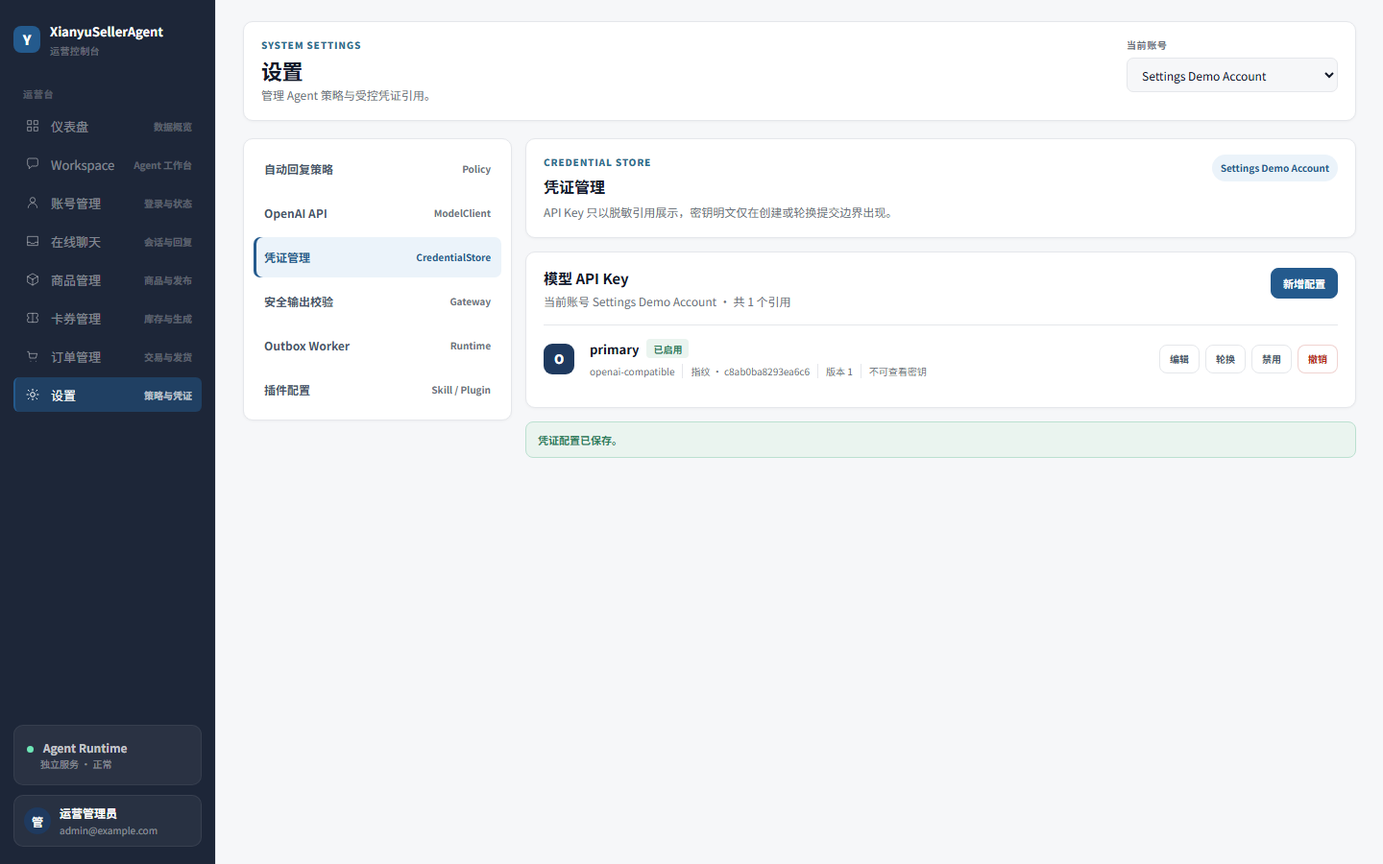
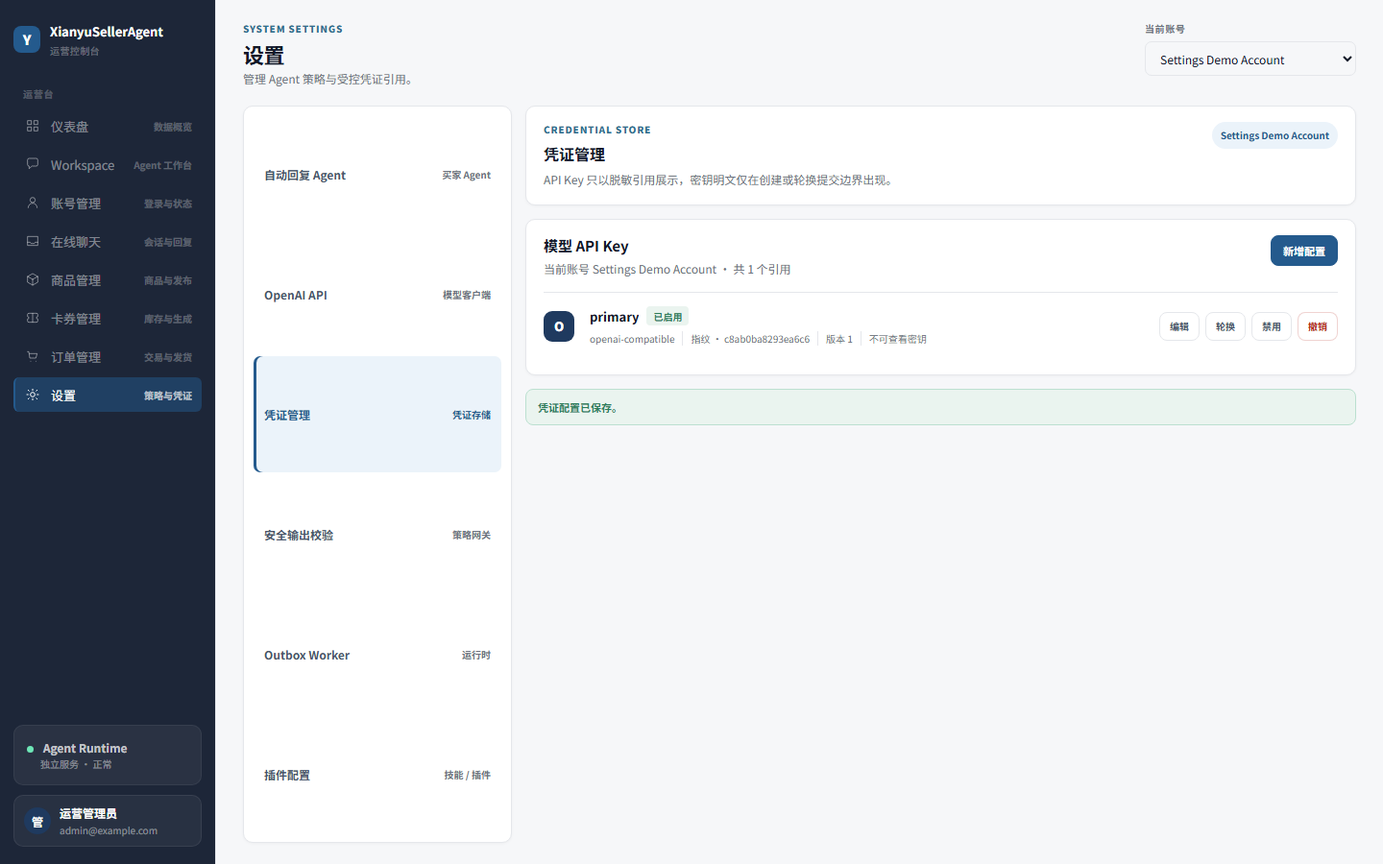
fix(自动回复): 修复外部商品号与设置页状态

diff --git a/apps/web/src/features/settings/components/settings.css b/apps/web/src/features/settings/components/settings.css
@@ -1,5 +1,4 @@
-.settings-page{position:relative;min-height:100%}.settings-tab-mobile-label{display:none}.settings-mobile-header{display:flex;align-items:flex-start;justify-content:space-between;gap:18px;padding:16px 18px}.settings-mobile-header h1{margin:0 0 4px;font-size:22px}.settings-account-picker{display:grid;gap:6px;min-width:220px}.settings-account-picker label{color:var(--sub);font-size:10px;font-weight:700;text-transform:uppercase;letter-spacing:.06em}.settings-account-picker select{height:36px;padding:0 11px;border:1px solid var(--border);border-radius:7px;background:var(--bg);color:var(--text);font-size:12px}.settings-grid{display:grid;grid-template-columns:280px minmax(0,1fr);gap:14px;align-items:start}.settings-tabs{padding:10px;display:grid;gap:4px}.settings-tabs button{display:flex;align-items:center;justify-content:space-between;gap:12px;min-height:42px;padding:8px 11px;border:0;border-radius:7px;background:transparent;color:var(--muted);text-align:left;font-size:12px;font-weight:700}.settings-tabs button small{color:var(--sub);font-size:10px;font-weight:600}.settings-tabs button:hover{background:#F8FAFC}.settings-tabs button.active{background:var(--soft-blue-bg);color:var(--link);box-shadow:inset 3px 0 0 var(--link)}.settings-tabs button.active small{color:var(--link)}.settings-active{min-width:0}.settings-content{display:grid;gap:14px}.settings-hero{display:flex;align-items:flex-start;justify-content:space-between;gap:14px}.settings-hero h2{font-size:16px;margin-bottom:5px}.settings-scope-chip{display:inline-flex;align-items:center;min-height:28px;padding:0 9px;border-radius:999px;background:var(--soft-blue-bg);color:var(--link);font-size:10px;font-weight:700;white-space:nowrap}.settings-state{display:flex;align-items:center;justify-content:space-between;gap:12px;padding:28px 20px;border:1px dashed var(--border);border-radius:10px;background:#fff;color:var(--sub);font-size:12px}.settings-state strong{color:var(--text);font-size:13px}.settings-state span{display:block}.settings-state.empty{display:grid;justify-items:start;gap:8px;text-align:left}.settings-state.error{border-style:solid;border-color:rgba(180,35,24,.18);background:var(--danger-bg);color:var(--danger)}.settings-state.loading{justify-content:flex-start}.settings-spinner{width:14px;height:14px;border:2px solid #D5E3EF;border-top-color:var(--link);border-radius:50%;animation:settings-spin .8s linear infinite}.panel-head{display:flex;align-items:flex-start;justify-content:space-between;gap:14px;margin-bottom:14px}.panel-head h2{font-size:15px;margin-bottom:4px}.credential-list-card{overflow:hidden}.credential-list{display:grid;gap:0;border-top:1px solid var(--border)}.credential-row{display:grid;grid-template-columns:36px minmax(0,1fr) auto;align-items:center;gap:12px;padding:14px 0;border-bottom:1px solid var(--border)}.credential-row:last-child{border-bottom:0}.credential-mark{width:32px;height:32px;display:grid;place-items:center;border-radius:9px;background:var(--brand);color:#fff;font-size:13px;font-weight:800}.credential-main{min-width:0}.credential-title{display:flex;align-items:center;gap:8px;min-width:0}.credential-title strong{font-size:13px;white-space:nowrap;overflow:hidden;text-overflow:ellipsis}.credential-meta{display:flex;flex-wrap:wrap;gap:8px;margin-top:6px;color:var(--sub);font-size:10px}.credential-meta span+span{padding-left:8px;border-left:1px solid var(--border)}.status-pill{display:inline-flex;align-items:center;height:20px;padding:0 7px;border-radius:4px;font-size:10px;font-weight:700}.status-pill.ok{background:var(--success-bg);color:var(--success)}.status-pill.warn{background:var(--warn-bg);color:var(--warn)}.status-pill.danger{background:var(--danger-bg);color:var(--danger)}.credential-actions{display:flex;justify-content:flex-end;gap:6px;flex-wrap:wrap}.credential-actions .btn{height:30px;padding:0 10px;font-size:10px}.settings-save-toast{padding:10px 12px;border:1px solid var(--success-border);border-radius:8px;background:var(--success-bg);color:var(--success);font-size:11px;font-weight:700}.settings-reference-list{display:grid;gap:0;margin:12px 0 16px;border-top:1px solid var(--border)}.settings-reference-list>div{display:grid;grid-template-columns:140px minmax(0,1fr) auto;gap:12px;align-items:center;padding:12px 0;border-bottom:1px solid var(--border);font-size:11px}.settings-reference-list strong{color:var(--muted);font-size:11px}.settings-reference-list span{color:var(--text)}.settings-reference-list em{font-style:normal;color:var(--info);font-size:10px;font-weight:700}.settings-editor{padding:20px}.settings-editor .modal-head{margin-bottom:16px}.settings-form-grid{display:grid;grid-template-columns:repeat(2,minmax(0,1fr));gap:12px}.settings-form-grid label{display:grid;gap:6px;color:var(--muted);font-size:11px;font-weight:700}.settings-form-grid label.full{grid-column:1/-1}.settings-form-grid input{height:38px;padding:0 11px;border:1px solid var(--border);border-radius:7px;background:var(--bg);color:var(--text);font-size:12px}.settings-editor-note{display:grid;gap:4px;margin-top:14px;padding:11px 12px;border-left:3px solid var(--info);border-radius:6px;background:var(--soft-blue-bg);color:var(--muted);font-size:10px}.settings-editor-note strong{color:var(--info);font-size:11px}.settings-mobile-bottom{display:none}
+.settings-page{position:relative;display:flex;min-height:100%;height:100%;flex-direction:column}.settings-tab-mobile-label{display:none}.settings-toolbar{display:flex;align-items:flex-start;justify-content:space-between;gap:18px}.settings-toolbar h1{margin:0 0 4px;font-size:22px}.settings-account-picker{display:grid;gap:6px;min-width:220px}.settings-account-picker label{color:var(--sub);font-size:10px;font-weight:700;text-transform:uppercase;letter-spacing:.06em}.settings-account-picker select{height:36px;padding:0 11px;border:1px solid var(--border);border-radius:7px;background:var(--bg);color:var(--text);font-size:12px}.settings-grid{display:grid;flex:1;min-height:0;grid-template-columns:280px minmax(0,1fr);gap:14px;align-items:stretch}.settings-tabs{padding:10px;display:grid;gap:4px}.settings-tabs button{display:flex;align-items:center;justify-content:space-between;gap:12px;min-height:42px;padding:8px 11px;border:0;border-radius:7px;background:transparent;color:var(--muted);text-align:left;font-size:12px;font-weight:700}.settings-tabs button small{color:var(--sub);font-size:10px;font-weight:600}.settings-tabs button:hover{background:#F8FAFC}.settings-tabs button.active{background:var(--soft-blue-bg);color:var(--link);box-shadow:inset 3px 0 0 var(--link)}.settings-tabs button.active small{color:var(--link)}.settings-active{min-width:0;min-height:0}.settings-content{display:grid;gap:14px;min-height:0}.settings-hero{display:flex;align-items:flex-start;justify-content:space-between;gap:14px}.settings-hero h2{font-size:16px;margin-bottom:5px}.settings-scope-chip{display:inline-flex;align-items:center;min-height:28px;padding:0 9px;border-radius:999px;background:var(--soft-blue-bg);color:var(--link);font-size:10px;font-weight:700;white-space:nowrap}.settings-state{display:flex;align-items:center;justify-content:space-between;gap:12px;padding:28px 20px;border:1px dashed var(--border);border-radius:10px;background:#fff;color:var(--sub);font-size:12px}.settings-state strong{color:var(--text);font-size:13px}.settings-state span{display:block}.settings-state.empty{display:grid;justify-items:start;gap:8px;text-align:left}.settings-state.error{border-style:solid;border-color:rgba(180,35,24,.18);background:var(--danger-bg);color:var(--danger)}.settings-state.loading{justify-content:flex-start}.settings-spinner{width:14px;height:14px;border:2px solid #D5E3EF;border-top-color:var(--link);border-radius:50%;animation:settings-spin .8s linear infinite}.panel-head{display:flex;align-items:flex-start;justify-content:space-between;gap:14px;margin-bottom:14px}.panel-head h2{font-size:15px;margin-bottom:4px}.credential-list-card{overflow:hidden}.credential-list{display:grid;gap:0;border-top:1px solid var(--border)}.credential-row{display:grid;grid-template-columns:36px minmax(0,1fr) auto;align-items:center;gap:12px;padding:14px 0;border-bottom:1px solid var(--border)}.credential-row:last-child{border-bottom:0}.credential-mark{width:32px;height:32px;display:grid;place-items:center;border-radius:9px;background:var(--brand);color:#fff;font-size:13px;font-weight:800}.credential-main{min-width:0}.credential-title{display:flex;align-items:center;gap:8px;min-width:0}.credential-title strong{font-size:13px;white-space:nowrap;overflow:hidden;text-overflow:ellipsis}.credential-meta{display:flex;flex-wrap:wrap;gap:8px;margin-top:6px;color:var(--sub);font-size:10px}.credential-meta span+span{padding-left:8px;border-left:1px solid var(--border)}.status-pill{display:inline-flex;align-items:center;height:20px;padding:0 7px;border-radius:4px;font-size:10px;font-weight:700}.status-pill.ok{background:var(--success-bg);color:var(--success)}.status-pill.warn{background:var(--warn-bg);color:var(--warn)}.status-pill.danger{background:var(--danger-bg);color:var(--danger)}.credential-actions{display:flex;justify-content:flex-end;gap:6px;flex-wrap:wrap}.credential-actions .btn{height:30px;padding:0 10px;font-size:10px}.settings-save-toast{padding:10px 12px;border:1px solid var(--success-border);border-radius:8px;background:var(--success-bg);color:var(--success);font-size:11px;font-weight:700}.settings-reference-list{display:grid;gap:0;margin:12px 0 16px;border-top:1px solid var(--border)}.settings-reference-list>div{display:grid;grid-template-columns:140px minmax(0,1fr) auto;gap:12px;align-items:center;padding:12px 0;border-bottom:1px solid var(--border);font-size:11px}.settings-reference-list strong{color:var(--muted);font-size:11px}.settings-reference-list span{color:var(--text)}.settings-reference-list em{font-style:normal;color:var(--info);font-size:10px;font-weight:700}.settings-editor{padding:20px}.settings-editor .modal-head{margin-bottom:16px}.settings-form-grid{display:grid;grid-template-columns:repeat(2,minmax(0,1fr));gap:12px}.settings-form-grid label{display:grid;gap:6px;color:var(--muted);font-size:11px;font-weight:700}.settings-form-grid label.full{grid-column:1/-1}.settings-form-grid input{height:38px;padding:0 11px;border:1px solid var(--border);border-radius:7px;background:var(--bg);color:var(--text);font-size:12px}.settings-form-grid select{height:38px;padding:0 11px;border:1px solid var(--border);border-radius:7px;background:var(--bg);color:var(--text);font-size:12px}.settings-form-grid textarea{padding:10px 11px;border:1px solid var(--border);border-radius:7px;background:var(--bg);color:var(--text);font-size:12px;line-height:1.5;resize:vertical}.settings-checkbox{display:flex!important;align-items:center;gap:8px;height:38px}.settings-checkbox input{width:16px;height:16px}.auto-reply-agent-fields{display:grid;grid-column:1/-1;grid-template-columns:repeat(2,minmax(0,1fr));gap:12px;min-inline-size:0;margin:0;padding:0;border:0}.auto-reply-agent-fields:disabled{opacity:.5}.auto-reply-agent-editor{padding:20px}.settings-editor-note{display:grid;gap:4px;margin-top:14px;padding:11px 12px;border-left:3px solid var(--info);border-radius:6px;background:var(--soft-blue-bg);color:var(--muted);font-size:10px}.settings-editor-note strong{color:var(--info);font-size:11px}.settings-mobile-bottom{display:none}
 @keyframes settings-spin{to{transform:rotate(360deg)}}
 @media(max-width:900px){.settings-shell .sidebar{display:none}.settings-shell .desktop-body{border-left:0}.settings-shell .desktop-body main.settings-main{padding:14px 16px}}
-@media(max-width:900px){.settings-page{padding-bottom:84px}.settings-mobile-header{display:grid;gap:14px;padding:14px;border-radius:12px}.settings-mobile-header h1{font-size:18px}.settings-account-picker{min-width:0}.settings-grid{display:block}.settings-tabs{display:flex;overflow-x:auto;scrollbar-width:none;gap:7px;padding:0 0 2px;border:0;box-shadow:none;background:transparent}.settings-tabs::-webkit-scrollbar{display:none}.settings-tabs button{min-width:58px;min-height:46px;display:grid;place-items:center;gap:2px;padding:6px 8px;border:1px solid var(--border);background:#fff;border-radius:8px;text-align:center}.settings-tab-label{display:none}.settings-tab-mobile-label{display:block}.settings-tabs button small{font-size:9px}.settings-tabs button.active{box-shadow:inset 0 -2px 0 var(--link);border-color:#D4E4F1}.settings-content{gap:12px}.panel{padding:14px}.settings-hero{display:grid;gap:10px}.credential-list-card .panel-head{align-items:center}.credential-row{grid-template-columns:32px minmax(0,1fr);align-items:start;padding:13px 0}.credential-actions{grid-column:2;justify-content:flex-start}.credential-meta{gap:6px}.credential-meta span+span{padding-left:6px}.settings-reference-list>div{grid-template-columns:1fr auto;gap:6px}.settings-reference-list>div span{grid-column:1/-1}.settings-editor{padding:16px;border-radius:14px}.settings-form-grid{grid-template-columns:1fr}.settings-form-grid label.full{grid-column:auto}.settings-mobile-bottom{position:fixed;left:0;right:0;bottom:0;z-index:30;display:grid;grid-template-columns:repeat(4,1fr);padding:8px 0 24px;border-top:1px solid var(--border);background:#fff}.settings-mobile-bottom button{display:grid;justify-items:center;gap:4px;border:0;background:transparent;color:var(--sub);font-size:18px}.settings-mobile-bottom button small{font-size:9px;font-weight:700}.settings-mobile-bottom button.active{color:var(--link)}}
-.settings-form-grid select{height:38px;padding:0 11px;border:1px solid var(--border);border-radius:7px;background:var(--bg);color:var(--text);font-size:12px}.settings-form-grid textarea{padding:10px 11px;border:1px solid var(--border);border-radius:7px;background:var(--bg);color:var(--text);font-size:12px;line-height:1.5;resize:vertical}.settings-checkbox{display:flex!important;align-items:center;gap:8px;height:38px}.settings-checkbox input{width:16px;height:16px}.auto-reply-agent-editor{padding:20px}
+@media(max-width:900px){.settings-page{height:auto;min-height:calc(100dvh - 30px);padding-bottom:84px}.settings-toolbar{display:grid;gap:10px}.settings-toolbar h1{font-size:18px}.settings-account-picker{min-width:0}.settings-grid{display:block}.settings-tabs{display:flex;overflow-x:auto;scrollbar-width:none;gap:7px;padding:0 0 2px;border:0;box-shadow:none;background:transparent}.settings-tabs::-webkit-scrollbar{display:none}.settings-tabs button{min-width:58px;min-height:46px;display:grid;place-items:center;gap:2px;padding:6px 8px;border:1px solid var(--border);background:#fff;border-radius:8px;text-align:center}.settings-tab-label{display:none}.settings-tab-mobile-label{display:block}.settings-tabs button small{font-size:9px}.settings-tabs button.active{box-shadow:inset 0 -2px 0 var(--link);border-color:#D4E4F1}.settings-content{gap:12px}.panel{padding:14px}.settings-hero{display:grid;gap:10px}.credential-list-card .panel-head{align-items:center}.credential-row{grid-template-columns:32px minmax(0,1fr);align-items:start;padding:13px 0}.credential-actions{grid-column:2;justify-content:flex-start}.credential-meta{gap:6px}.credential-meta span+span{padding-left:6px}.settings-reference-list>div{grid-template-columns:1fr auto;gap:6px}.settings-reference-list>div span{grid-column:1/-1}.settings-editor{padding:16px;border-radius:14px}.settings-form-grid{grid-template-columns:1fr}.settings-form-grid label.full{grid-column:auto}.auto-reply-agent-fields{grid-template-columns:1fr}.auto-reply-agent-fields label.full{grid-column:auto}.settings-mobile-bottom{position:fixed;left:0;right:0;bottom:0;z-index:30;display:grid;grid-template-columns:repeat(4,1fr);padding:8px 0 24px;border-top:1px solid var(--border);background:#fff}.settings-mobile-bottom button{display:grid;justify-items:center;gap:4px;border:0;background:transparent;color:var(--sub);font-size:18px}.settings-mobile-bottom button small{font-size:9px;font-weight:700}.settings-mobile-bottom button.active{color:var(--link)}}

diff --git a/apps/web/src/features/settings/components/AutoReplyAgentPanel.tsx b/apps/web/src/features/settings/components/AutoReplyAgentPanel.tsx
@@ -37,20 +37,22 @@ export function AutoReplyAgentPanel({ controller }: { controller: AutoReplyAgent
     <form className="card panel settings-editor auto-reply-agent-editor" onSubmit={(event) => void submit(event)}>
       <div className="settings-form-grid">
         <label className="settings-checkbox full"><input type="checkbox" checked={draft.enabled} onChange={(event) => setField('enabled', event.target.checked)} />启用自动回复 Agent</label>
-        <label className="full">系统提示词<textarea value={draft.systemPrompt} onChange={(event) => setField('systemPrompt', event.target.value)} rows={5} maxLength={20000} required /></label>
-        <label className="full">用户提示词模板<textarea value={draft.userPromptTemplate} onChange={(event) => setField('userPromptTemplate', event.target.value)} rows={4} maxLength={20000} required /></label>
-        <label>最大循环次数<input type="number" min={1} max={12} value={draft.maxLoops} onChange={(event) => setField('maxLoops', Number(event.target.value))} required /></label>
-        <label>工具调用上限<input type="number" min={1} max={32} value={draft.maxToolCalls} onChange={(event) => setField('maxToolCalls', Number(event.target.value))} required /></label>
-        <label>工具超时（毫秒）<input type="number" min={100} max={120000} value={draft.toolTimeoutMs} onChange={(event) => setField('toolTimeoutMs', Number(event.target.value))} required /></label>
-        <label>总超时（毫秒）<input type="number" min={1000} max={300000} value={draft.totalTimeoutMs} onChange={(event) => setField('totalTimeoutMs', Number(event.target.value))} required /></label>
-        <label>上下文历史条数<input type="number" min={0} max={100} value={draft.maxHistory} onChange={(event) => setField('maxHistory', Number(event.target.value))} required /></label>
-        <label>最大回复长度<input type="number" min={50} max={4000} value={draft.maxReplyLength} onChange={(event) => setField('maxReplyLength', Number(event.target.value))} required /></label>
-        <label>分段长度上限<input type="number" min={50} max={1000} value={draft.maxReplySegmentChars} onChange={(event) => setField('maxReplySegmentChars', Number(event.target.value))} required /></label>
-        <label>最大分段数<input type="number" min={1} max={12} value={draft.maxReplySegments} onChange={(event) => setField('maxReplySegments', Number(event.target.value))} required /></label>
-        <label>分段发送间隔（毫秒）<input type="number" min={0} max={30000} value={draft.replySegmentDelayMs} onChange={(event) => setField('replySegmentDelayMs', Number(event.target.value))} required /></label>
-        <label>防抖窗口（毫秒）<input type="number" min={0} max={30000} value={draft.debounceMs} onChange={(event) => setField('debounceMs', Number(event.target.value))} required /></label>
-        <label className="settings-checkbox"><input type="checkbox" checked={draft.allowPaidOrderReply} onChange={(event) => setField('allowPaidOrderReply', event.target.checked)} />允许已支付订单自动回复</label>
-        <label>发送模式<select value={draft.sendMode} onChange={(event) => setField('sendMode', event.target.value as EditableConfig['sendMode'])}><option value="simulate">模拟发送</option><option value="live">真实发送（受白名单约束）</option></select></label>
+        <fieldset className="auto-reply-agent-fields" disabled={!draft.enabled} aria-label="自动回复 Agent 配置项">
+          <label className="full">系统提示词<textarea value={draft.systemPrompt} onChange={(event) => setField('systemPrompt', event.target.value)} rows={5} maxLength={20000} required /></label>
+          <label className="full">用户提示词模板<textarea value={draft.userPromptTemplate} onChange={(event) => setField('userPromptTemplate', event.target.value)} rows={4} maxLength={20000} required /></label>
+          <label>最大循环次数<input type="number" min={1} max={12} value={draft.maxLoops} onChange={(event) => setField('maxLoops', Number(event.target.value))} required /></label>
+          <label>工具调用上限<input type="number" min={1} max={32} value={draft.maxToolCalls} onChange={(event) => setField('maxToolCalls', Number(event.target.value))} required /></label>
+          <label>工具超时（毫秒）<input type="number" min={100} max={120000} value={draft.toolTimeoutMs} onChange={(event) => setField('toolTimeoutMs', Number(event.target.value))} required /></label>
+          <label>总超时（毫秒）<input type="number" min={1000} max={300000} value={draft.totalTimeoutMs} onChange={(event) => setField('totalTimeoutMs', Number(event.target.value))} required /></label>
+          <label>上下文历史条数<input type="number" min={0} max={100} value={draft.maxHistory} onChange={(event) => setField('maxHistory', Number(event.target.value))} required /></label>
+          <label>最大回复长度<input type="number" min={50} max={4000} value={draft.maxReplyLength} onChange={(event) => setField('maxReplyLength', Number(event.target.value))} required /></label>
+          <label>分段长度上限<input type="number" min={50} max={1000} value={draft.maxReplySegmentChars} onChange={(event) => setField('maxReplySegmentChars', Number(event.target.value))} required /></label>
+          <label>最大分段数<input type="number" min={1} max={12} value={draft.maxReplySegments} onChange={(event) => setField('maxReplySegments', Number(event.target.value))} required /></label>
+          <label>分段发送间隔（毫秒）<input type="number" min={0} max={30000} value={draft.replySegmentDelayMs} onChange={(event) => setField('replySegmentDelayMs', Number(event.target.value))} required /></label>
+          <label>防抖窗口（毫秒）<input type="number" min={0} max={30000} value={draft.debounceMs} onChange={(event) => setField('debounceMs', Number(event.target.value))} required /></label>
+          <label className="settings-checkbox"><input type="checkbox" checked={draft.allowPaidOrderReply} onChange={(event) => setField('allowPaidOrderReply', event.target.checked)} />允许已支付订单自动回复</label>
+          <label>发送模式<select value={draft.sendMode} onChange={(event) => setField('sendMode', event.target.value as EditableConfig['sendMode'])}><option value="simulate">模拟发送</option><option value="live">真实发送（受白名单约束）</option></select></label>
+        </fieldset>
       </div>
       <div className="settings-editor-note"><strong>配置审计</strong><span>当前版本 v{state.data.configVersion} · 摘要 {state.data.configDigest} · Prompt 原文不会写入审计日志。</span></div>
       <div className="modal-actions"><button type="submit" className="btn primary" disabled={state.phase === 'submitting'}>{state.phase === 'submitting' ? '保存中…' : '保存自动回复 Agent 配置'}</button></div>

diff --git a/apps/api/src/auto-reply-agent.ts b/apps/api/src/auto-reply-agent.ts
@@ -176,7 +176,13 @@ export class ToolCallingAutoReplyAgent implements AutoReplyGenerator {
   private async getProductInfo(adminId: string, context: AutoReplyContext, requestedRef?: string): Promise<Record<string, unknown>> {
     const productRef = requestedRef?.trim() || context.conversation.itemRef;
     if (!productRef) return { ok: false, code: 'PRODUCT_REF_REQUIRED' };
-    const byId = await this.store.getProduct(adminId, productRef);
+    // External Xianyu item refs are commonly numeric (for example
+    // `1078553391460`) while the local PostgreSQL product primary key is a
+    // UUID. Calling getProduct with an external ref makes PostgreSQL attempt
+    // to cast the value to uuid and abort the whole Agent run with 22P02.
+    // Only issue the primary-key lookup for UUID-shaped refs; external refs
+    // and titles are resolved through the scoped list query below.
+    const byId = isUuid(productRef) ? await this.store.getProduct(adminId, productRef) : undefined;
     if (byId && byId.accountId === context.conversation.accountId) return { ok: true, product: safeProduct(byId) };
     const result = await this.store.listProducts(adminId, { accountId: context.conversation.accountId, keyword: productRef, page: 1, pageSize: 100 });
     const product = result.items.find((item) => item.id === productRef || item.externalProductRef === productRef || item.title === productRef);
@@ -239,6 +245,10 @@ function renderUserPrompt(template: string, context: Record<string, unknown>): s
 
 function stringArg(value: unknown): string | undefined {
   return typeof value === 'string' ? value.slice(0, 120) : undefined;
+}
+
+function isUuid(value: string): boolean {
+  return /^[0-9a-f]{8}-[0-9a-f]{4}-[1-5][0-9a-f]{3}-[89ab][0-9a-f]{3}-[0-9a-f]{12}$/i.test(value);
 }
 
 function numberArg(value: unknown, fallback: number): number {

diff --git a/apps/web/src/features/settings/components/SettingsPage.tsx b/apps/web/src/features/settings/components/SettingsPage.tsx
@@ -48,10 +48,10 @@ export function SettingsPage({ api: providedApi, agentApi: providedAgentApi }: {
 
   return (
     <section className="page-stack settings-page" data-settings-page>
-      <div className="settings-mobile-header card">
+      <header className="settings-toolbar">
         <div><p className="eyebrow">System Settings</p><h1>设置</h1><p>管理 Agent 策略与受控凭证引用。</p></div>
         <div className="settings-account-picker"><label htmlFor="settings-account">当前账号</label><select id="settings-account" value={selectedAccountId} onChange={(event) => chooseAccount(event.target.value)} disabled={accountsLoading || accounts.length === 0}><option value="">请选择账号</option>{accounts.map((account) => <option key={account.id} value={account.id}>{account.displayName}</option>)}</select></div>
-      </div>
+      </header>
       <div className="settings-grid">
         <aside className="card settings-tabs" aria-label="设置分类">
           {tabs.map((tab) => <button key={tab.id} type="button" className={activeTab === tab.id ? 'active' : ''} onClick={() => setActiveTab(tab.id)}><span className="settings-tab-label">{tab.label}</span><span className="settings-tab-mobile-label">{tab.mobileLabel}</span><small>{tab.meta}</small></button>)}

diff --git a/docs/agent-worktree-registry.md b/docs/agent-worktree-registry.md
@@ -58,9 +58,9 @@
 | `root/listener_ready` | `auto-reply-smoke-race` | `codex/auto-reply-smoke-race` | `F:\ChenHai\Project\XianYuAgent-auto-reply-smoke-race` | Codex `/root` delegated agent | `2026-09-21 10:59:00 +08:00` | `MERGED` | `b59f026` | `-` | 更新自动回复 smoke 断言以匹配新的幂等语义：重复 push 返回同一 run、AI 出站保持单条、无真实发送；完整 API/Web 测试、构建和 Compose 配置通过。 |
 | `root` | `message-dedupe-fix` | `fix/message-dedupe` | `F:\ChenHai\Project\XianYuAgent-message-dedupe-fix` | Codex `/root` | `2026-09-21 12:00:00 +08:00` | `CLEANED` | `1b459a4` | `2026-09-21 11:45:00 +08:00` | 统一历史同步与实时 push 的规范消息号，补 parser、历史导入和原始 push 幂等回归；独立根因/UI 复核通过，定向与全量测试通过；worktree 与分支已清理。 |
 | `root` | `auto-reply-ai` | `feat/auto-reply-ai` | `F:\ChenHai\Project\XianYuAgent-auto-reply-ai` | Codex `/root` | `2026-09-21 12:10:00 +08:00` | `CLEANED` | `baf7e4d78327d52ba11fe8c73fd40cf8b13836d1` | `2026-09-21 12:12:20 +08:00` | 独立复审通过并在 merge lock 内合入；master 上模型单测 18/18、自动回复 E2E 1/1、API 全量 19/19、Web 39/39、构建、Compose 配置和 diff check 均通过；临时 worktree 与分支已清理。 |
-| `root` | `auto-reply-agent` | `feat/auto-reply-agent` | `F:\\ChenHai\\Project\\XianYuAgent-auto-reply` | Codex `/root` | `2026-09-21 12:20:00 +08:00` | `READY_FOR_REVIEW` | `-` | `-` | 自动回复 Agent 设计已确认并归档到 docs/agent/auto-reply；尚未进入编码。 |
-| `root/auto_reply_settings` | `auto-reply-agent-settings` | `codex/auto-reply-settings` | `F:\\ChenHai\\Project\\XianYuAgent-auto-reply-settings` | Codex `/root` delegated agent | `2026-09-21 13:05:00 +08:00` | `READY_FOR_REVIEW` | `-` | `-` | 已完成独立自动回复 Agent SettingsSection API/迁移、中文配置面板与 Chrome/CDP E2E；API/Web 定向测试和版本冲突验证通过。待主 agent 注入 configProvider 并复审合并。 |
-| `root/buyer_agent_impl` | `auto-reply-buyer-agent` | `codex/buyer-agent-impl` | `F:\ChenHai\Project\XianYuAgent-buyer-agent` | Codex `/root` delegated agent | `2026-09-21 13:00:00 +08:00` | `READY_FOR_REVIEW` | `-` | `-` | 买家侧独立 Agent：四个只读工具、tool-call loop、环境配置；真实 push→tool call→simulate→落库 E2E 通过；不修改 Settings 页面/API。 |
+| `root` | `auto-reply-agent` | `feat/auto-reply-agent` | `F:\\ChenHai\\Project\\XianYuAgent-auto-reply` | Codex `/root` | `2026-09-21 12:20:00 +08:00` | `MERGED` | `6ae118b` | `-` | 设计文档与自动回复 Agent Settings API/中文配置面板已合入 master；原 worktree 保留未清理冲突现场，禁止删除。 |
+| `root/auto_reply_settings` | `auto-reply-agent-settings` | `codex/auto-reply-settings` | `F:\\ChenHai\\Project\\XianYuAgent-auto-reply-settings` | Codex `/root` delegated agent | `2026-09-21 13:05:00 +08:00` | `MERGED` | `6ae118b` | `-` | Settings API/迁移、中文配置面板与 Chrome/CDP E2E 已合入 master；动态 configProvider 联调已补齐。 |
+| `root/buyer_agent_impl` | `auto-reply-buyer-agent` | `codex/buyer-agent-impl` | `F:\ChenHai\Project\XianYuAgent-buyer-agent` | Codex `/root` delegated agent | `2026-09-21 13:00:00 +08:00` | `MERGED` | `05bba98` | `-` | 买家侧四工具 Agent、tool-call loop、动态配置、simulate 出站与落库 E2E 已合入 master；原 worktree 保留供审计。 |
 
 ## 主工作区
 

diff --git a/STATUS.md b/STATUS.md
@@ -2,6 +2,7 @@
 
 ## 2026-09-21 增量修复
 
+- 自动回复 Agent 设置与动态联调：设置页 Tab 已改为“自动回复 Agent”，配置通过独立 `AutoReplyAgentSettingsService` 持久化；买家 Agent 使用四个只读工具并在每条入站消息前读取最新管理员配置，支持 Prompt、循环/工具上限、上下文、回复长度、分段、防抖、已支付订单策略和 simulate/live（live 仍受环境变量买家白名单约束）。真实 push→tool call→生成→模拟出站→消息/`auto_reply_runs` 落库 E2E 3/3 通过；Chrome/CDP 设置页 E2E 通过；当前仍为 simulate 验证，真实闲鱼发送与发布级恢复未关闭。
 - 自动回复模型接入：复用 Workspace 的 `API_KEY/BASE_URL/MODEL/MODEL_TIMEOUT_MS` 环境变量和同一个 OpenAI-compatible `ModelClient`；配置完整时走 `ModelAutoReplyGenerator`，缺少配置时保留模板生成，Provider 失败安全落库为失败且不创建 outbound；新增模型上下文裁剪、成功装配和 503 失败回归测试。
 - 在线聊天 CSRF：API 重启后旧页面的 token 失效时，前端刷新 `/api/v1/auth/session` 后仅重试原 mutation 一次并保留 `Idempotency-Key`；Web 38 个测试文件 / 117 个用例、类型检查、构建通过。
 - 自动回复白名单：真实 push 缺少 `senderName` 且本地会话尚无昵称时，先按 `externalConversationRef` 补全闲鱼买家身份并持久化，再进入白名单门禁；新增回归测试覆盖 allowlist 通过与 `auto_reply_runs.status=persisted`。真实买家 push 仍待外部触发，不能用历史同步替代。
